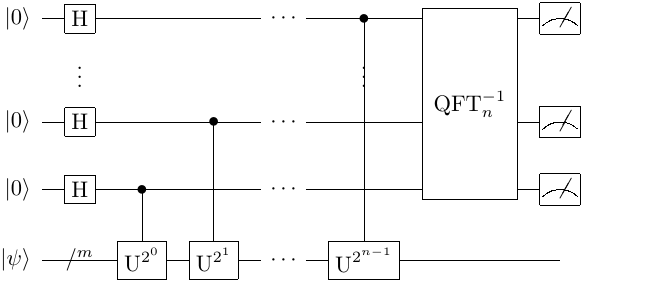
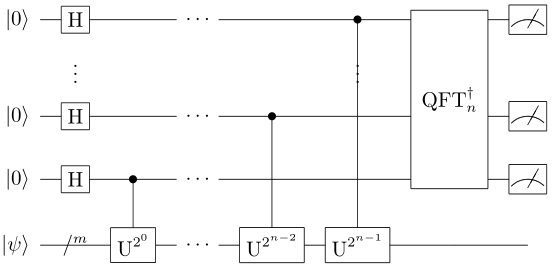
因目前HHL线路函数返回结果不是直接计算结果，调整代码为调用solve接口 修订Hadamard Test线路图、QPE线路图和HHL线路图 修订振幅放大中公式里部分变量字母不统一的问题 更换QPE中的算例为更合适的算例 修订HHL中公式上下标存在的颠倒问题

diff --git a/source/QPE.rst b/source/QPE.rst
@@ -121,17 +121,21 @@ QPE的量子线路图如下所示
 
       machine = pq.init_quantum_machine(pq.QMachineType.CPU)
       qvec = machine.qAlloc_many(1)
-      cqv = machine.qAlloc_many(2)
+      cqv = machine.qAlloc_many(4)
       prog = pq.create_empty_qprog()
 
       # 构建量子程序
       prog.insert(pq.H(cqv[0]))\
-            .insert(pq.H(cqv[1]))\
-            .insert(pq.S(qvec[0]))\
-            .insert(pq.RY(qvec[0], pi/4).control(cqv[1]))\
-            .insert(pq.RY(qvec[0], pi/4).control(cqv[0]))\
-            .insert(pq.RY(qvec[0], pi/4).control(cqv[0]))\
-            .insert(pq.QFT(cqv).dagger())
+          .insert(pq.H(cqv[1]))\
+          .insert(pq.H(cqv[2]))\
+          .insert(pq.H(cqv[3]))\
+          .insert(pq.H(qvec[0]))\
+          .insert(pq.S(qvec[0]))\
+          .insert(pq.RY(qvec[0], pi/4).control(cqv[0]))\
+          .insert(pq.RY(qvec[0], pi/2).control(cqv[1]))\
+          .insert(pq.RY(qvec[0], pi).control(cqv[2]))\
+          .insert(pq.RY(qvec[0], pi*2).control(cqv[3])) \
+          .insert(pq.QFT(cqv).dagger())
 
       # 对量子程序进行概率测量
       result = pq.prob_run_dict(prog, cqv, -1)
@@ -139,13 +143,25 @@ QPE的量子线路图如下所示
 
       # 打印测量结果
       for key in result:
-            print(key+":"+str(result[key]))
+          print(key+":"+str(result[key]))
 
-由前文可知输出结果应当以较大概率得到量子态 :math:`\left|0\right\rangle` 
+由前文可知输出结果应当以接近 :math:`1` 的概率得到量子态 :math:`\left|1111\right\rangle` （即 :math:`-1` ）
 
 .. code-block:: python
 
-   000, 0.821067
-   001, 0.0732233
-   010, 0.0324864
-   011, 0.0732233
+   0000:8.027759204248868e-34
+   0001:1.4038818472306108e-33
+   0010:6.324302228415449e-35
+   0011:1.8002817275101533e-33
+   0100:1.1716099389234709e-34
+   0101:3.7184613996614186e-35
+   0110:7.14619905441006e-35
+   0111:3.163946664340403e-33
+   1000:1.1716099389234709e-34
+   1001:2.361635369532623e-33
+   1010:6.324302228415447e-35
+   1011:1.5092886417824937e-32
+   1100:2.0191804511467995e-34
+   1101:2.142003975785634e-33
+   1110:1.0410679182118513e-33
+   1111:0.999999999999936

diff --git a/source/AmplitudeAmplification.rst b/source/AmplitudeAmplification.rst
@@ -7,7 +7,7 @@
 ****
 
 对于某个已知大小的可二元分类且标准 :math:`f` 确定的有限集合 :math:`\Omega`，基于 :math:`f` 可以将集合中的任一元素\
-:math:`\left|\psi\right\rangle` 表示为两个正交基态 :math:`\left|\psi_0\right\rangle,\left|\psi_1\right\rangle` 的线性组合。
+:math:`\left|\psi\right\rangle` 表示为两个正交基态 :math:`\left|\varphi_0\right\rangle,\left|\varphi_1\right\rangle` 的线性组合。
 
 .. math::
 
@@ -16,8 +16,8 @@
    \left|\varphi_0\right\rangle=\left|\varphi_1^\bot\right\rangle.
    \end{aligned}
 
-振幅放大量子线路可以将叠加态 :math:`\left|\psi\right\rangle` 的表达式中 :math:`\left|\psi_1\right\rangle` 的振幅放大，从而得到\
-一个结果量子态，能够以大概率测量得到目标量子态 :math:`\left|\psi_1\right\rangle`。
+振幅放大量子线路可以将叠加态 :math:`\left|\psi\right\rangle` 的表达式中 :math:`\left|\varphi_1\right\rangle` 的振幅放大，从而得到\
+一个结果量子态，能够以大概率测量得到目标量子态 :math:`\left|\varphi_1\right\rangle`。
 
 假设我们可以构造出某种量子门操作的组合，记该组合为振幅放大算子 :math:`Q` ，将 :math:`Q` 作用 :math:`k` 次于量子态\
 :math:`\left|\psi\right\rangle` 上得到形如下式的量子态
@@ -44,7 +44,7 @@
 .. math::
 
    \begin{aligned}
-   P_1=I-2\left|\psi_1\right\rangle \left\langle\psi_1\right|,
+   P_1=I-2\left|\varphi_1\right\rangle \left\langle\varphi_1\right|,
    P=I-2\left|\psi\right\rangle \left\langle\psi\right|,
    Q=-PP_1.
    \end{aligned}
@@ -80,7 +80,7 @@
 ****
 
 取 :math:`\Omega=\{0,1\}, \left|\psi\right\rangle = \sin{\frac{\pi}{6}}\left|1\right\rangle+
-\cos{\frac{\pi}{6}}\left|1\right\rangle,\ P_1=I-2\left|1\right\rangle \left\langle 1\right|=Z,
+\cos{\frac{\pi}{6}}\left|0\right\rangle,\ P_1=I-2\left|1\right\rangle \left\langle 1\right|=Z,
 P=I-2\left|\psi\right\rangle \left\langle\psi\right|`，
 
 振幅放大量子线路的相应代码实例如下
